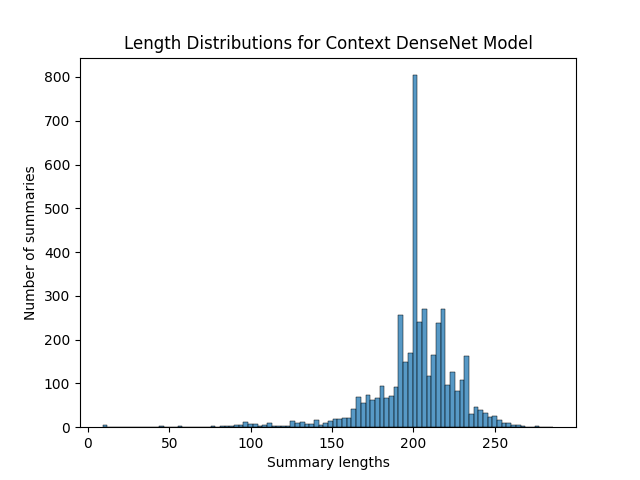
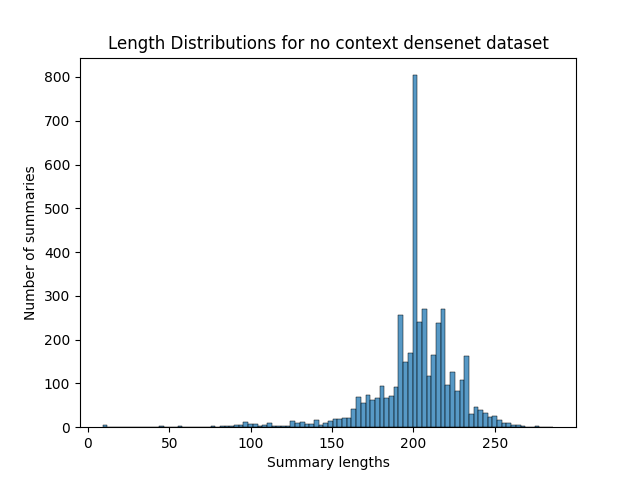
remove punctuation and refactor code

Changed region(s): [[0.1562, 0.0625, 0.875, 0.125]]

diff --git a/qualitative_analysis/analysis.py b/qualitative_analysis/analysis.py
@@ -3,100 +3,102 @@ import seaborn as sns
 import matplotlib.pyplot as plt
 import nltk
 from collections import Counter
-
-nltk.download('stopwords')
+import re
 from nltk.corpus import stopwords
+nltk.download('stopwords')
 
 context_densenet = pd.read_csv('context_densenet.csv')
 context_resnet = pd.read_csv('context_resnet.csv')
 no_context_resnet = pd.read_csv('no_context_resnet.csv')
 no_context_densenet = pd.read_csv('no_context_densenet.csv')
 
-dataset = "no_context_resnet"
-datasetChartTitle = "Context ResNet"
-lst = no_context_resnet.label_generated.values.tolist()
+datasets = {'context_densenet': context_densenet,
+            'context_resnet': context_resnet,
+            'no_context_resnet': no_context_resnet,
+            'no_context_densenet': no_context_densenet}
 
-# Calculate distribution of lengths
+regex_extract_word = r'\b\w+\b'
+for dataset in datasets.keys():
+    # dataset = "no_context_resnet"
+    # datasetChartTitle = dataset.split("_")[:-1]+dataset.split("_")[-1]
+    split_tokens = dataset.split("_")
+    datasetChartTitle = dataset.split("_")[0] + " " + dataset.split("_")[-1] if len(split_tokens)==2 else \
+        dataset.split("_")[0]+" " + dataset.split("_")[1] + " " + dataset.split("_")[-1]
+    lst = datasets[dataset].label_generated.values.tolist()
 
-print("List ", lst)
-summary_lengths = list(map(len, lst))
-print("Generated lengths ", summary_lengths)
+    # Calculate distribution of lengths
+    # print("List ", lst)
+    summary_lengths = list(map(len, lst))
+    # print("Generated lengths ", summary_lengths)
+    sns.histplot(summary_lengths)
+    plt.title('Length Distributions for ' + datasetChartTitle + ' dataset')
+    plt.xlabel('Summary lengths')
+    plt.ylabel('Number of summaries')
+    # plt.show()
+    plt.savefig(dataset + '_lengthdist.png')
+    plt.close()
 
-sns.histplot(summary_lengths)
-plt.title('Length Distributions')
-plt.xlabel('Summary lengths')
-plt.ylabel('Number of summaries')
-# plt.show()
-plt.savefig(dataset + '_lengthdist.png')
+    # Plot most common words (possibly with and without stopwords - see which one is the most informative!
+    # Stopwords are common words that don't add information - e.g. "and", "the"
 
-# Plot most common words (possibly with and without stopwords - see which one is the most informative!
-# Stopwords are common words that don't add information - e.g. "and", "the"
+    cnt = Counter()
+    cnt_bigrams = Counter()
+    cnt_trigrams = Counter()
 
-cnt = Counter()
+    stop_words = set(stopwords.words('english'))
+    for text in lst:
+        words = re.findall(regex_extract_word, text)
+        for i in words:
+            if i.lower() not in stop_words:
+                cnt[i] += 1
+        for i in range(0, len(words) - 1):
+            cnt_bigrams[words[i] + ' ' + words[i + 1]] += 1
+        for i in range(0, len(words) - 2):
+            cnt_trigrams[words[i] + ' ' + words[i + 1] + ' ' + words[i + 2]] += 1
+    # See most common ten words
+    print("**** DATASET {} ****".format(dataset))
+    print("Most common words ", cnt.most_common(10))
+    word_freq = pd.DataFrame(cnt.most_common(15), columns=['words', 'count'])
+    word_freq.head()
+    fig, ax = plt.subplots(figsize=(12, 8))
+    # Plot horizontal bar graph
+    word_freq.sort_values(by='count').plot.barh(x='words',
+                          y='count',
+                          ax=ax,
+                          color="green")
+    ax.set_title("Most Common Unigrams")
+    plt.savefig(dataset + '_unigrams.png')
+    plt.close()
 
-stop_words = set(stopwords.words('english'))
+    print("Most common bigrams ", cnt_bigrams.most_common(10))
+    word_freq = pd.DataFrame(cnt_bigrams.most_common(15),
+                                 columns=['words', 'count'])
+    word_freq.head()
 
-for text in lst:
-    for word in text.split():
-        if word.lower() not in stop_words:
-            cnt[word] += 1
-# See most common ten words
-print("Most common words ", cnt.most_common(10))
-word_freq = pd.DataFrame(cnt.most_common(15),
-                             columns=['words', 'count'])
-word_freq.head()
+    fig, ax = plt.subplots(figsize=(12, 8))
 
-fig, ax = plt.subplots(figsize=(12, 8))
+    # Plot horizontal bar graph
+    word_freq.sort_values(by='count').plot.barh(x='words',
+                          y='count',
+                          ax=ax,
+                          color="green")
+    ax.set_title("Most Common Bigrams")
+    plt.savefig(dataset + '_bigrams.png')
+    plt.close()
 
-# Plot horizontal bar graph
-word_freq.sort_values(by='count').plot.barh(x='words',
-                      y='count',
-                      ax=ax,
-                      color="green")
-ax.set_title("Most Common Unigrams")
-plt.savefig(dataset + '_unigrams.png')
+    # See most common ten trigrams
+    print("Most common trigrams ", cnt_trigrams.most_common(10))
+    word_freq = pd.DataFrame(cnt_trigrams.most_common(15),
+                                 columns=['words', 'count'])
+    word_freq.head()
 
-# Visualization of top n bigrams
-from collections import Counter
-cnt = Counter()
-from nltk.corpus import stopwords
+    fig, ax = plt.subplots(figsize=(12, 8))
 
-stop_words = set(stopwords.words('english'))
-
-for text in lst:
-    for word in range(0, len(text.split()) - 1):
-        cnt[text.split()[word] + ' ' + text.split()[word + 1]] += 1
-# See most common ten bigrams
-print("Most common bigrams ", cnt.most_common(10))
-word_freq = pd.DataFrame(cnt.most_common(15),
-                             columns=['words', 'count'])
-word_freq.head()
-
-fig, ax = plt.subplots(figsize=(12, 8))
-
-# Plot horizontal bar graph
-word_freq.sort_values(by='count').plot.barh(x='words',
-                      y='count',
-                      ax=ax,
-                      color="green")
-ax.set_title("Most Common Bigrams")
-plt.savefig(dataset + '_bigrams.png')
-
-for text in lst:
-    for word in range(0, len(text.split()) - 2):
-        cnt[text.split()[word] + ' ' + text.split()[word + 1] + text.split()[word + 2]] += 1
-# See most common ten bigrams
-print("Most common trigrams ", cnt.most_common(10))
-word_freq = pd.DataFrame(cnt.most_common(15),
-                             columns=['words', 'count'])
-word_freq.head()
-
-fig, ax = plt.subplots(figsize=(12, 8))
-
-# Plot horizontal bar graph
-word_freq.sort_values(by='count').plot.barh(x='words',
-                      y='count',
-                      ax=ax,
-                      color="green")
-ax.set_title("Most Common Trigrams")
-plt.savefig(dataset + '_trigrams.png')
+    # Plot horizontal bar graph
+    word_freq.sort_values(by='count').plot.barh(x='words',
+                          y='count',
+                          ax=ax,
+                          color="green")
+    ax.set_title("Most Common Trigrams")
+    plt.savefig(dataset + '_trigrams.png')
+    plt.close()
